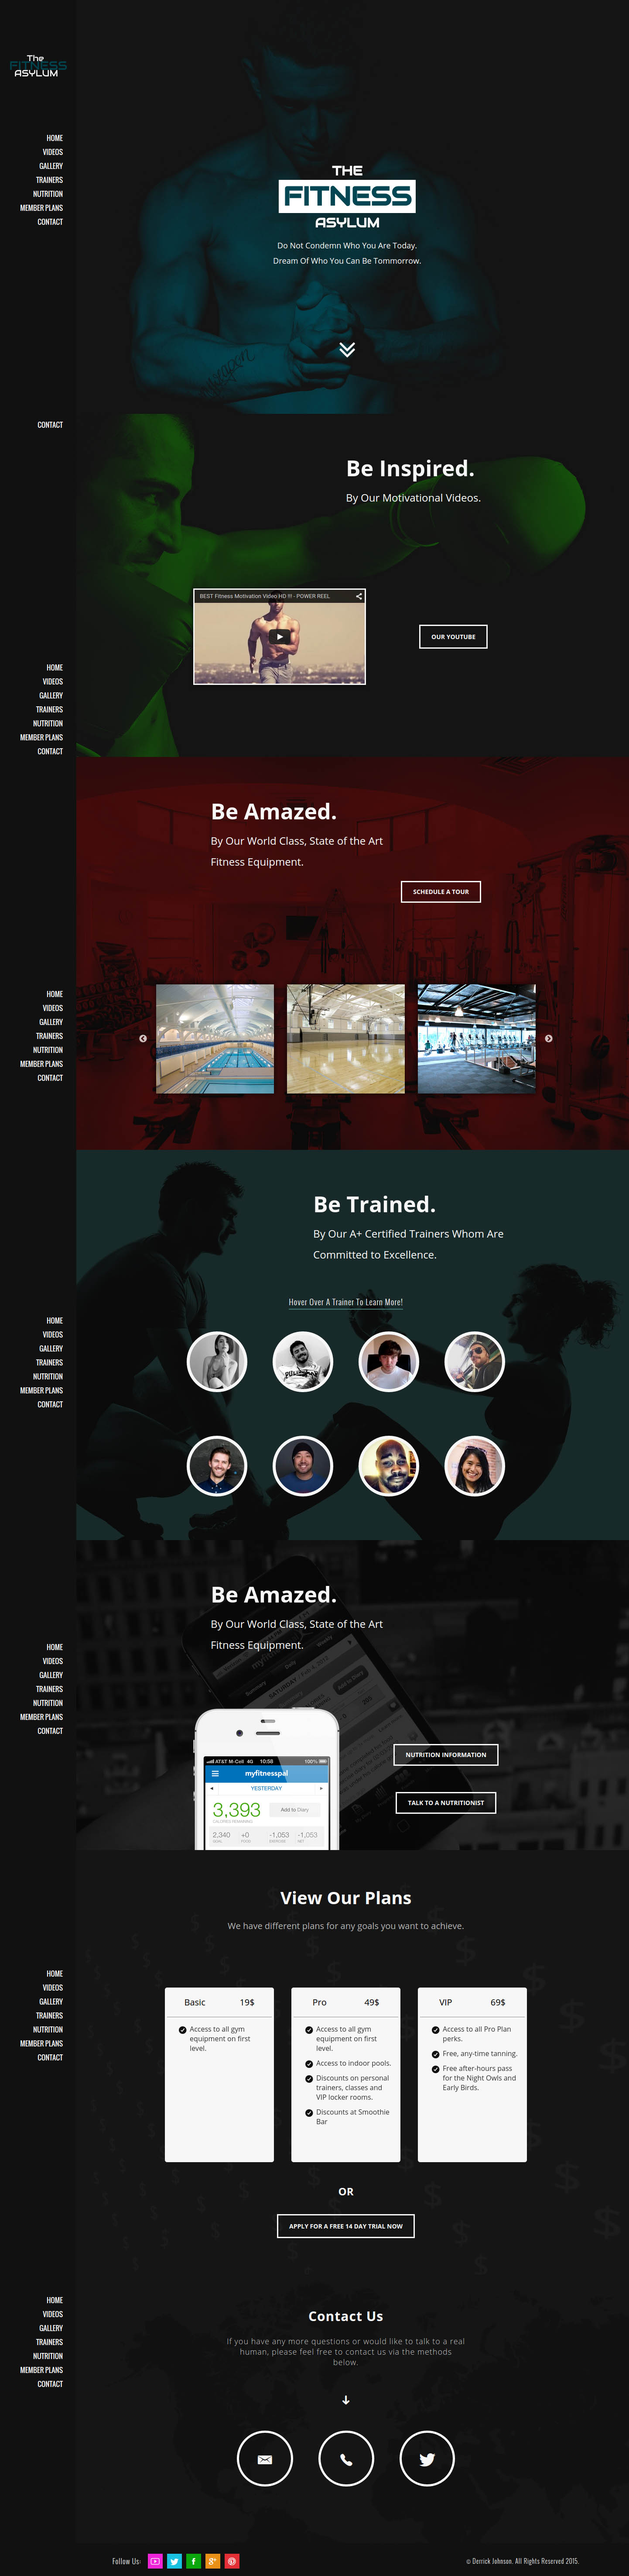
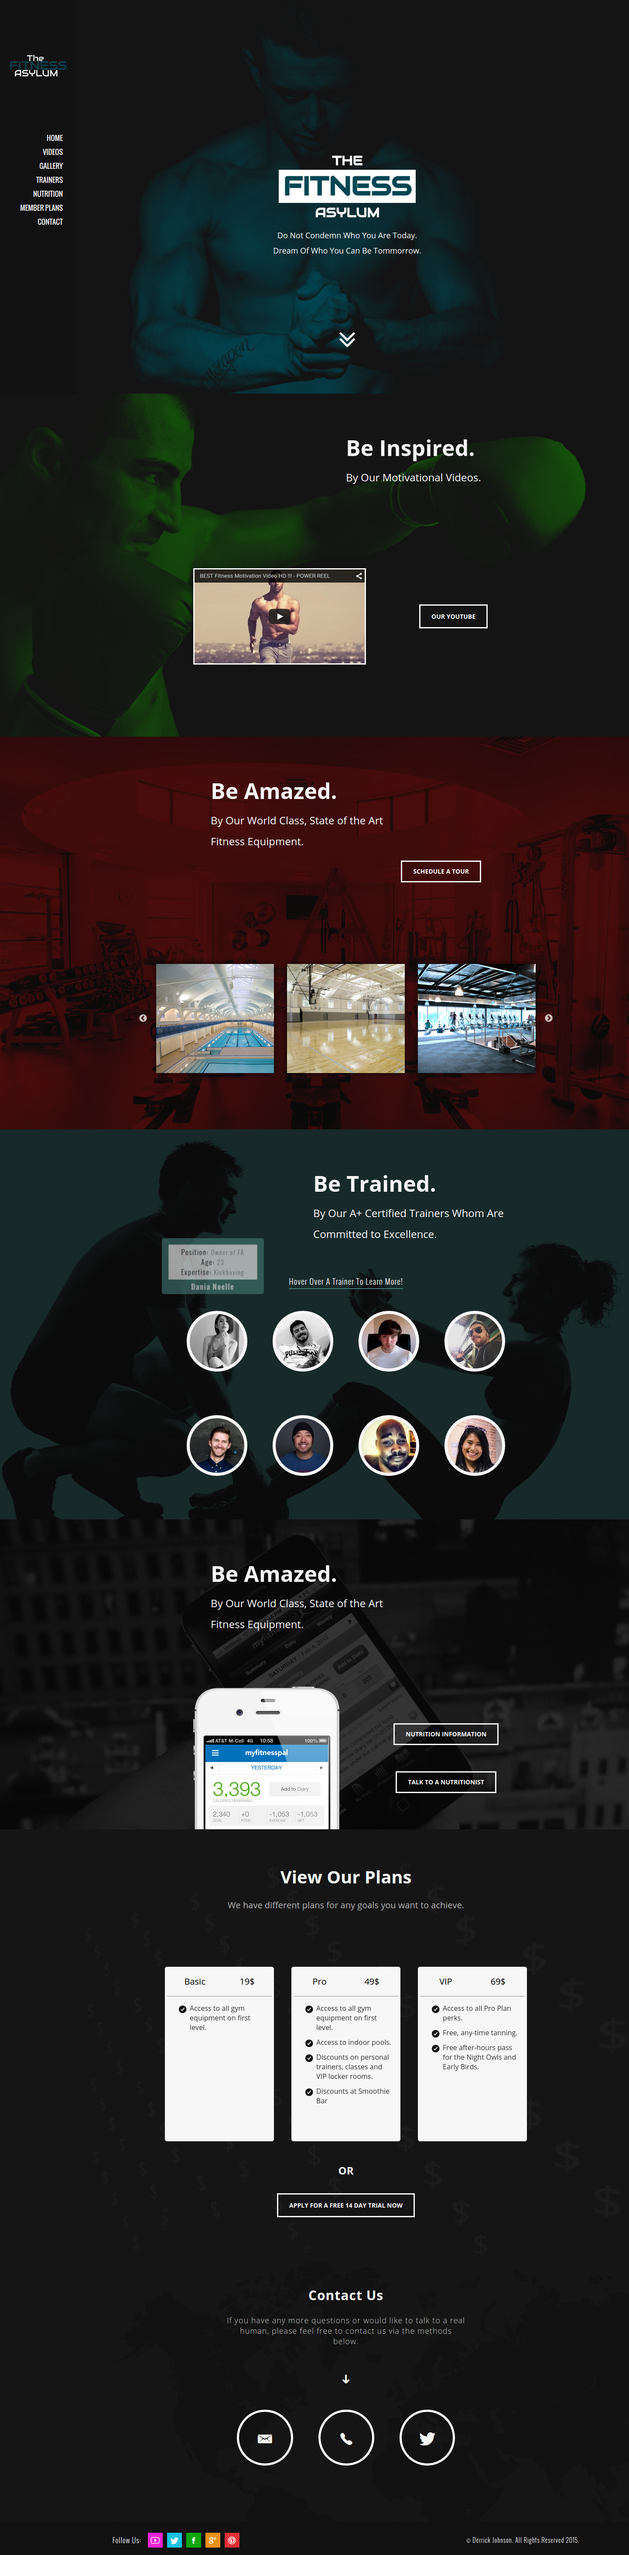
minor

diff --git a/_site/assets/css/main.css b/_site/assets/css/main.css
@@ -679,8 +679,7 @@ th {
     width: 175px;
     background-color: #111;
     height: 100vh;
-    overflow: auto;
-    position: fixed; }
+    overflow: auto; }
     #home #nav .logo {
       margin: 0 auto;
       background: url(/assets/images/logos/logo.png) center center no-repeat;

diff --git a/assets/css/sections/_header.sass b/assets/css/sections/_header.sass
@@ -43,7 +43,7 @@
 		background-color: #111
 		height: 100vh
 		overflow: auto
-		position: fixed
+		// position: fixed
 
 		.logo
 			margin: 0 auto
